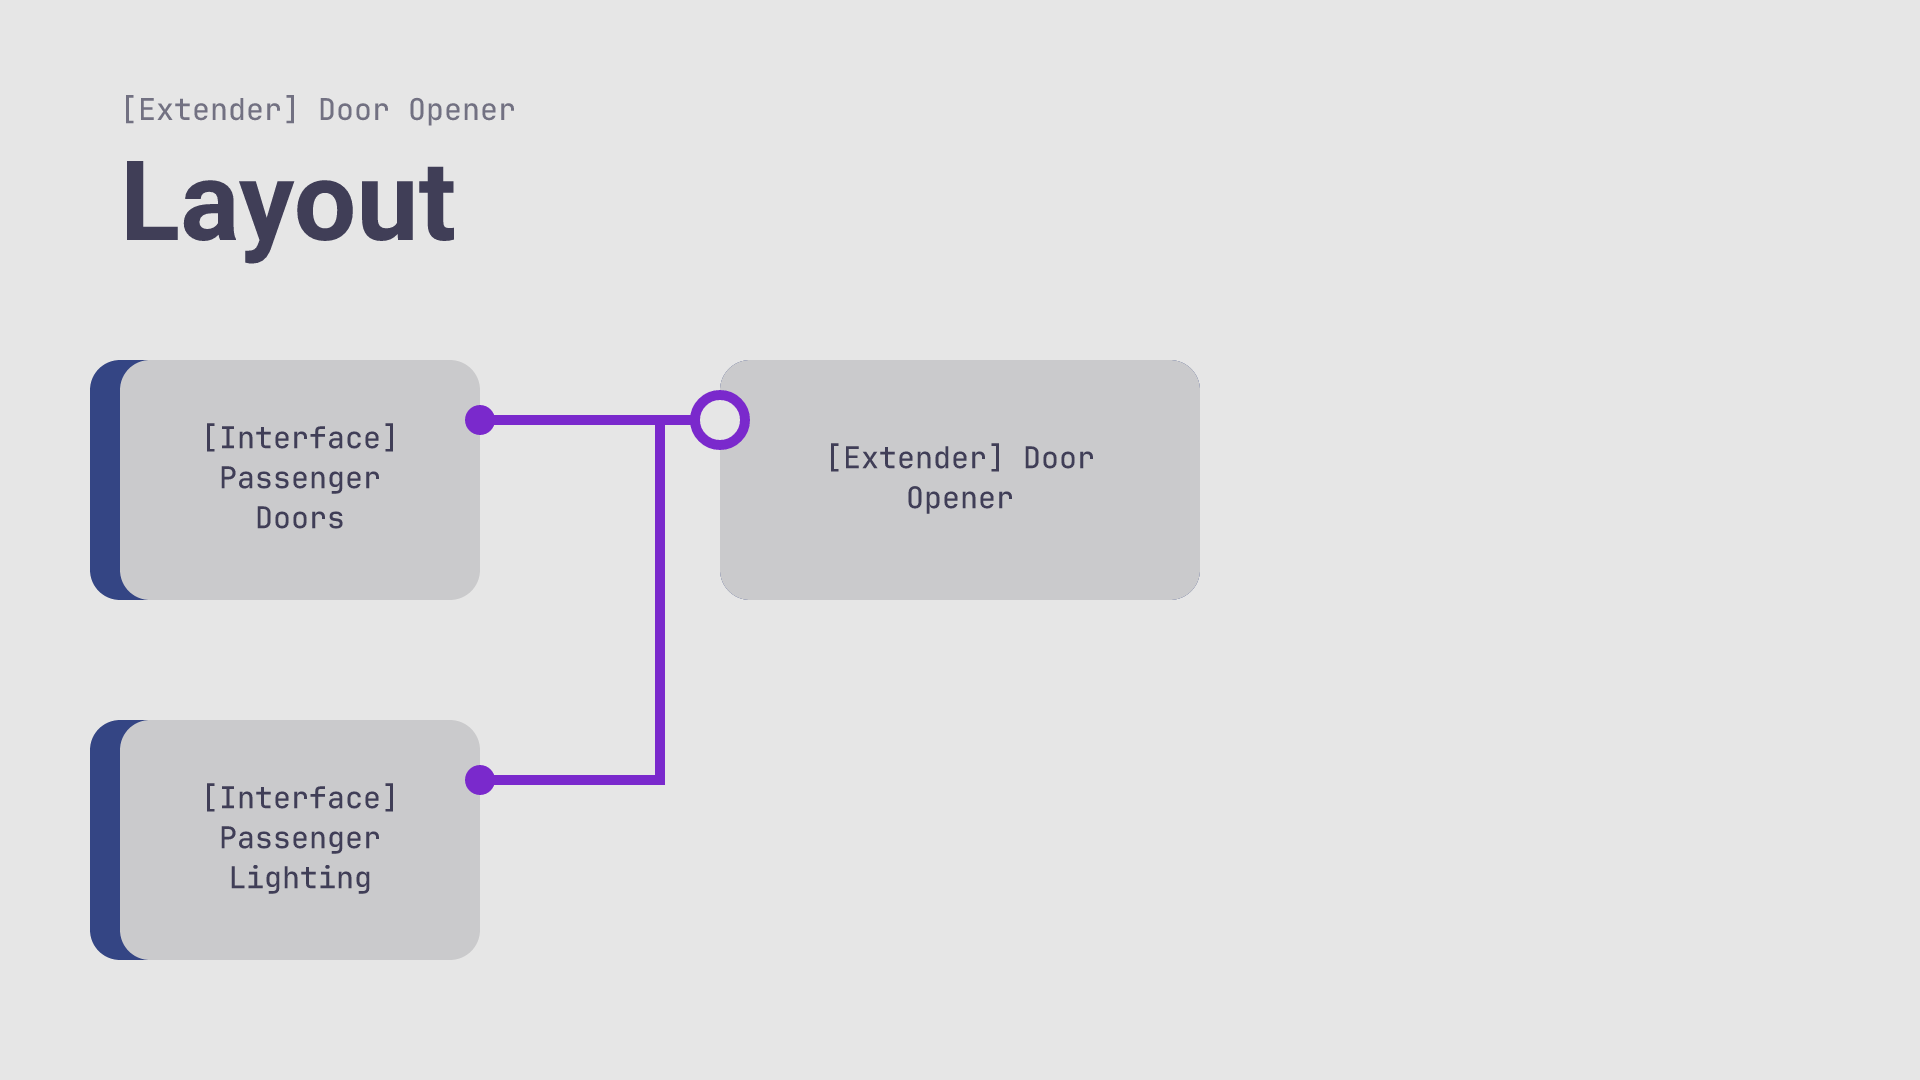
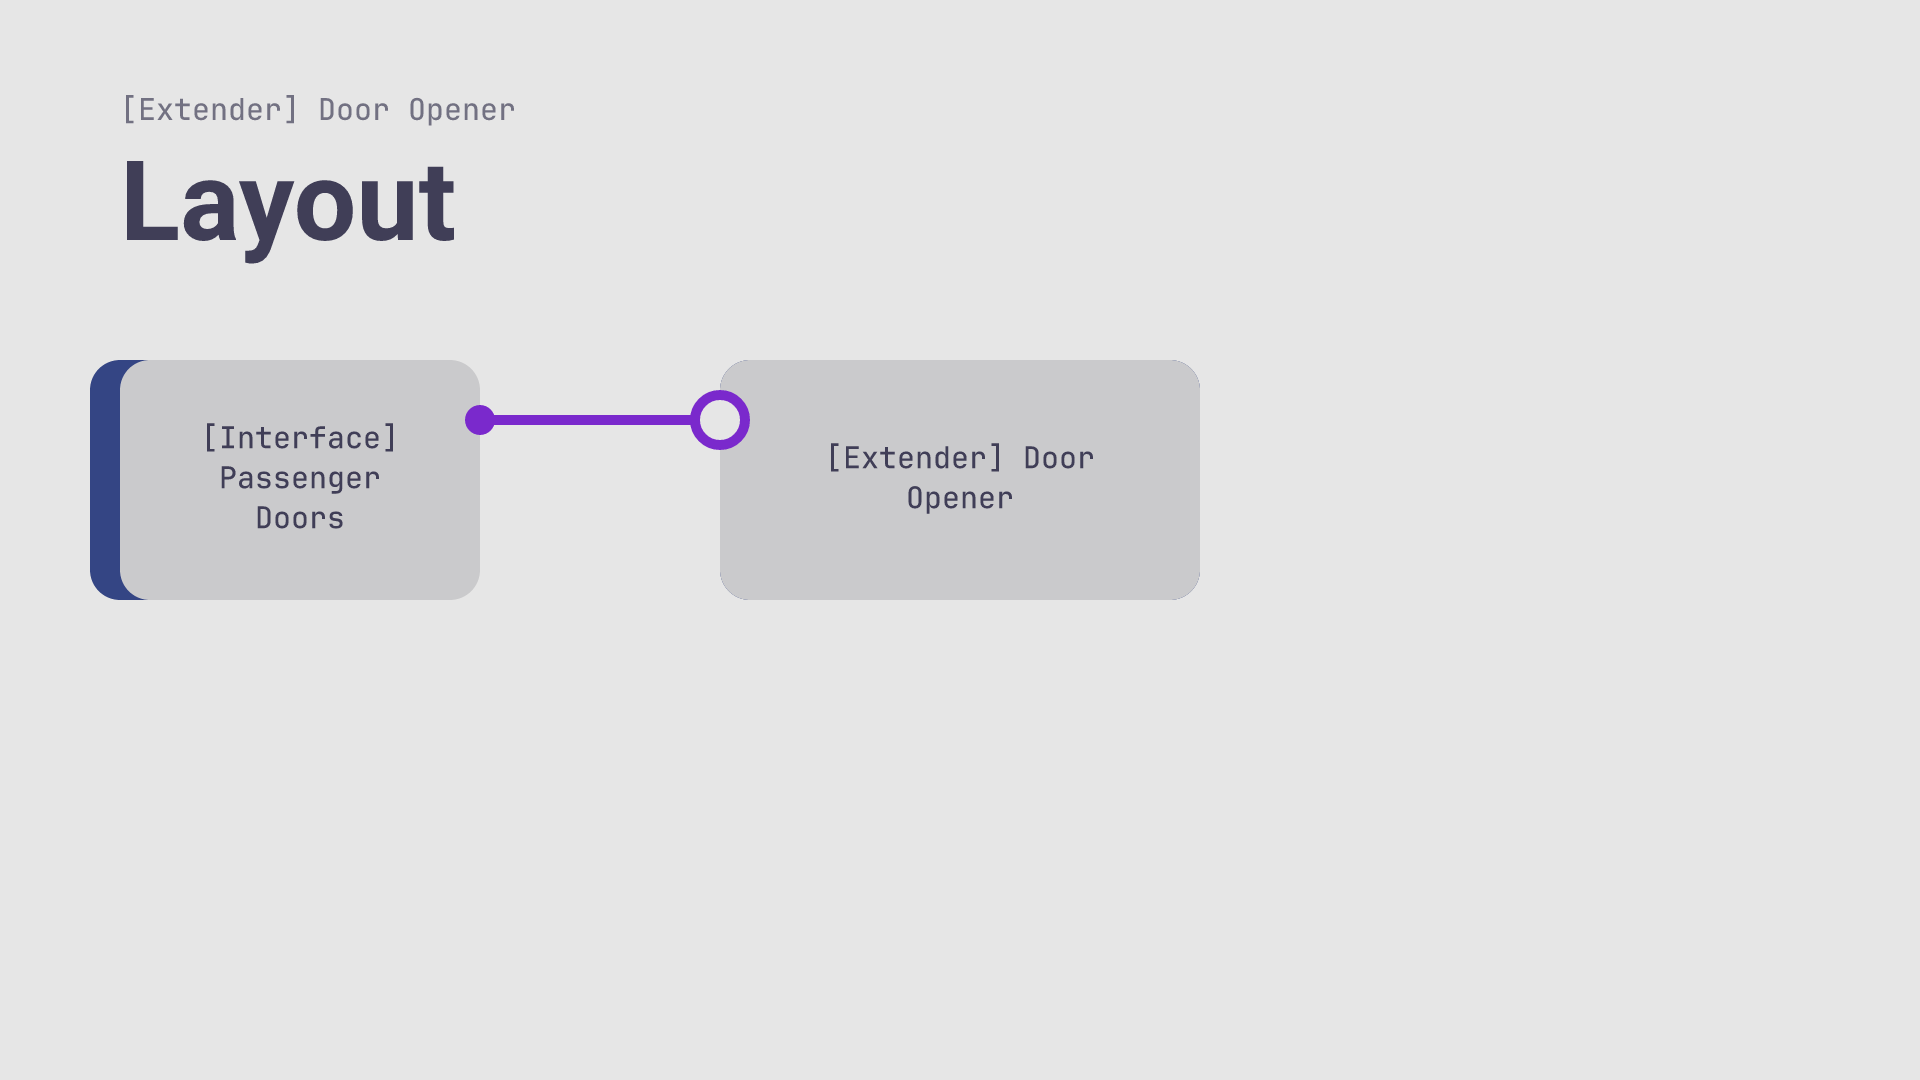
temporary fix for hierarchy issues with extenders

Changed region(s): [[0.0312, 0.6417, 0.3438, 0.8861]]

diff --git a/UpdateUtility/updateUtility.js b/UpdateUtility/updateUtility.js
@@ -36,14 +36,13 @@ swXMLBuilder = new XMLBuilder({ignoreAttributes: false, format: true, indentBy: 
 //swXMLBuilder = new XMLBuilder()
 
 // node updateUtility -args
-// -c:	copies the files from stormworks data to repository folder
 // -d:	updates database and controllers
 // -g:	generates illustrations, thumbnails and descriptions from database
 // -s: 	updates steam workshop items
 // -e:	exports database contents
 
 async function start() {
-	if (args.indexOf("-c") > -1) await execCopy()
+	//if (args.indexOf("-c") > -1) await execCopy()
 	if (args.indexOf("-d") > -1) await execDatabase()
 	if (args.indexOf("-g") > -1) await execImages()
 	if (args.indexOf("-s") > -1) await execSteam()
@@ -51,7 +50,7 @@ async function start() {
 }
 
 // Copy
-async function execCopy() {
+/*async function execCopy() {
 	let files = fs.readdirSync(swPath).filter(file => file.startsWith("SRC-TCP") && file.endsWith(".xml"))
 	let promises = []
 
@@ -72,7 +71,7 @@ async function execCopy() {
 		promises.push(fs.promises.copyFile(swPath + "/" + file, cPath + dData.group + " Group/SRC-TCP " + fData.identifier + ".xml")) // copy file
 	})
 	await Promise.all(promises)
-}
+}*/
 
 // Database
 async function execDatabase() {
@@ -153,14 +152,14 @@ async function execDatabase() {
 		})
 		lists["Interface"]?.forEach(c => {
 			database.controllers[c].hierarchy.higher = lists["Module"]
-			database.controllers[c].hierarchy.lower = lists["Extender"]
+			database.controllers[c].hierarchy.lower = (c.name === "Passenger Lighting") ? [] : lists["Extender"]
 		})
 		lists["RO Interface"]?.forEach(c => {
 			database.controllers[c].hierarchy.higher = lists["RO Module"]
-			database.controllers[c].hierarchy.lower = lists["Extender"]
+			database.controllers[c].hierarchy.lower = (interpretName(c).name === "Passenger Lighting") ? undefined : lists["Extender"]
 		})
 		lists["Extender"]?.forEach(c => {
-			database.controllers[c].hierarchy.higher = lists["Interface"]
+			database.controllers[c].hierarchy.higher = lists["Interface"].filter(c => interpretName(c).name !== "Passenger Lighting")
 		})
 	}
 }
@@ -189,7 +188,7 @@ async function execImages() {
 		SVGs.push(mergeJSON(genControllerCard(c), {
 			path: mPath + "Export/Cards/" + c.identifier
 		}))
-		SVGs.push(mergeJSON(genControllerLayout(c), {
+		if (c.group !== "System") SVGs.push(mergeJSON(genControllerLayout(c), {
 			path: mPath + "Export/Layout/" + c.identifier
 		}))
 		SVGs.push(mergeJSON(genControllerNodes(c), {
@@ -314,7 +313,8 @@ async function execExport(index) {
 }
 
 interpretName = name => {
-	let info = name.matchAll(/SRC-TCP *\[(.*?)\] *(.*?(?= *v\d| *\.| *\(| *$)) *(\((.*?)\))? *v?([0-9._]*[0-9])?/gm).next().value
+	//let info = name.matchAll(/SRC-TCP *\[(.*?)\] *(.*?(?= *v\d| *\.| *\(| *$)) *(\((.*?)\))? *v?([0-9._]*[0-9])?/gm).next().value
+	let info = name.matchAll(/\[(.*?)\] *(.*?(?= *v\d| *\.| *\(| *$)) *(\((.*?)\))? *v?([0-9._]*[0-9])?/gm).next().value
 	return {
 		identifier: "[" + info[1] + "] " + info[2] + (info[3] ? " (" + info[4] + ")" : ""),
 		type: info[1],
